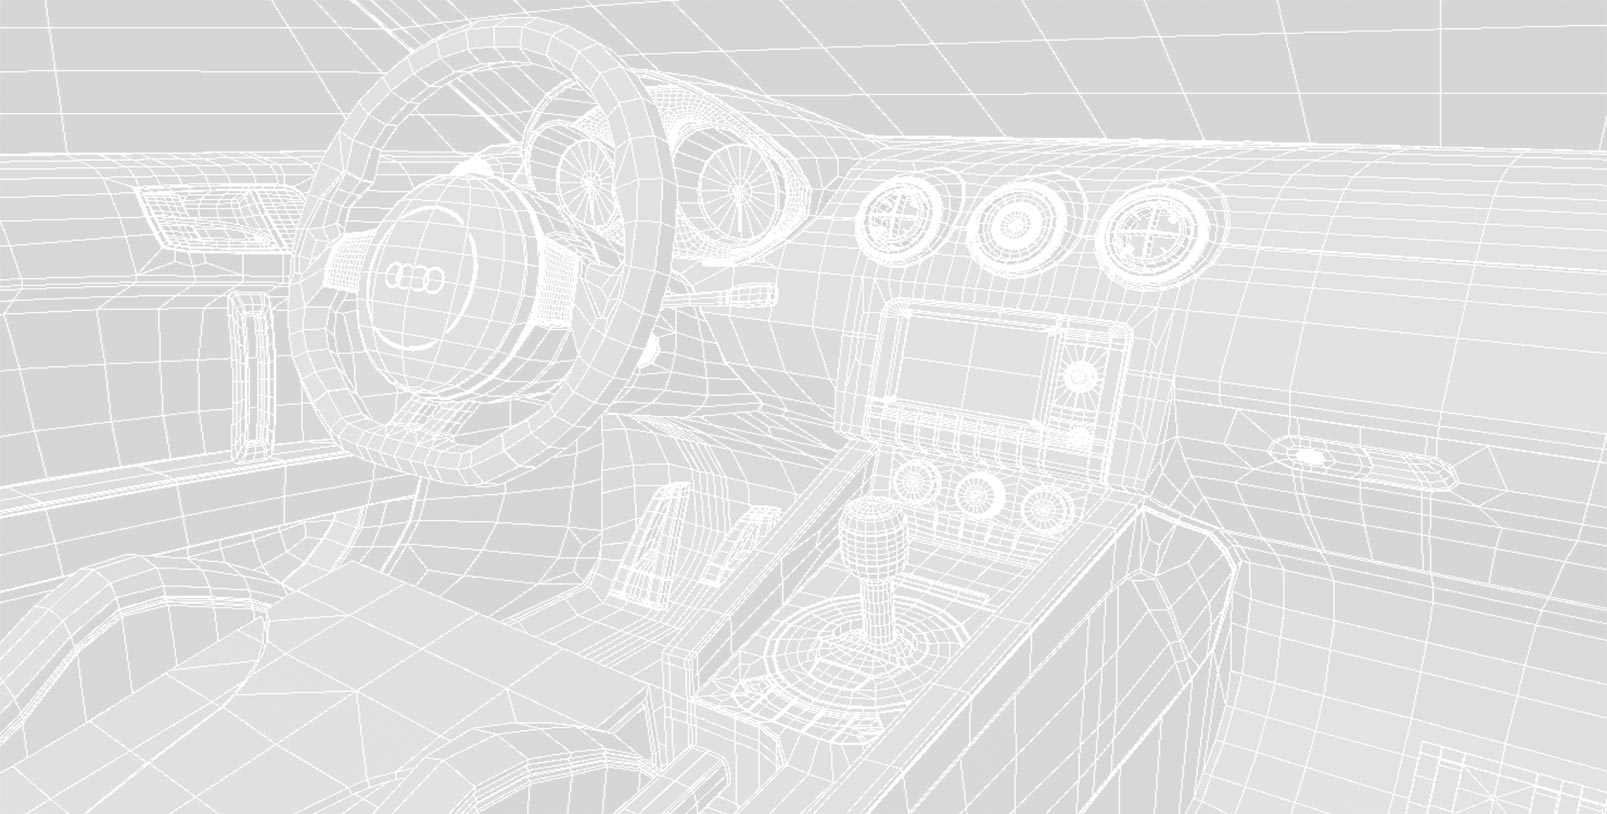
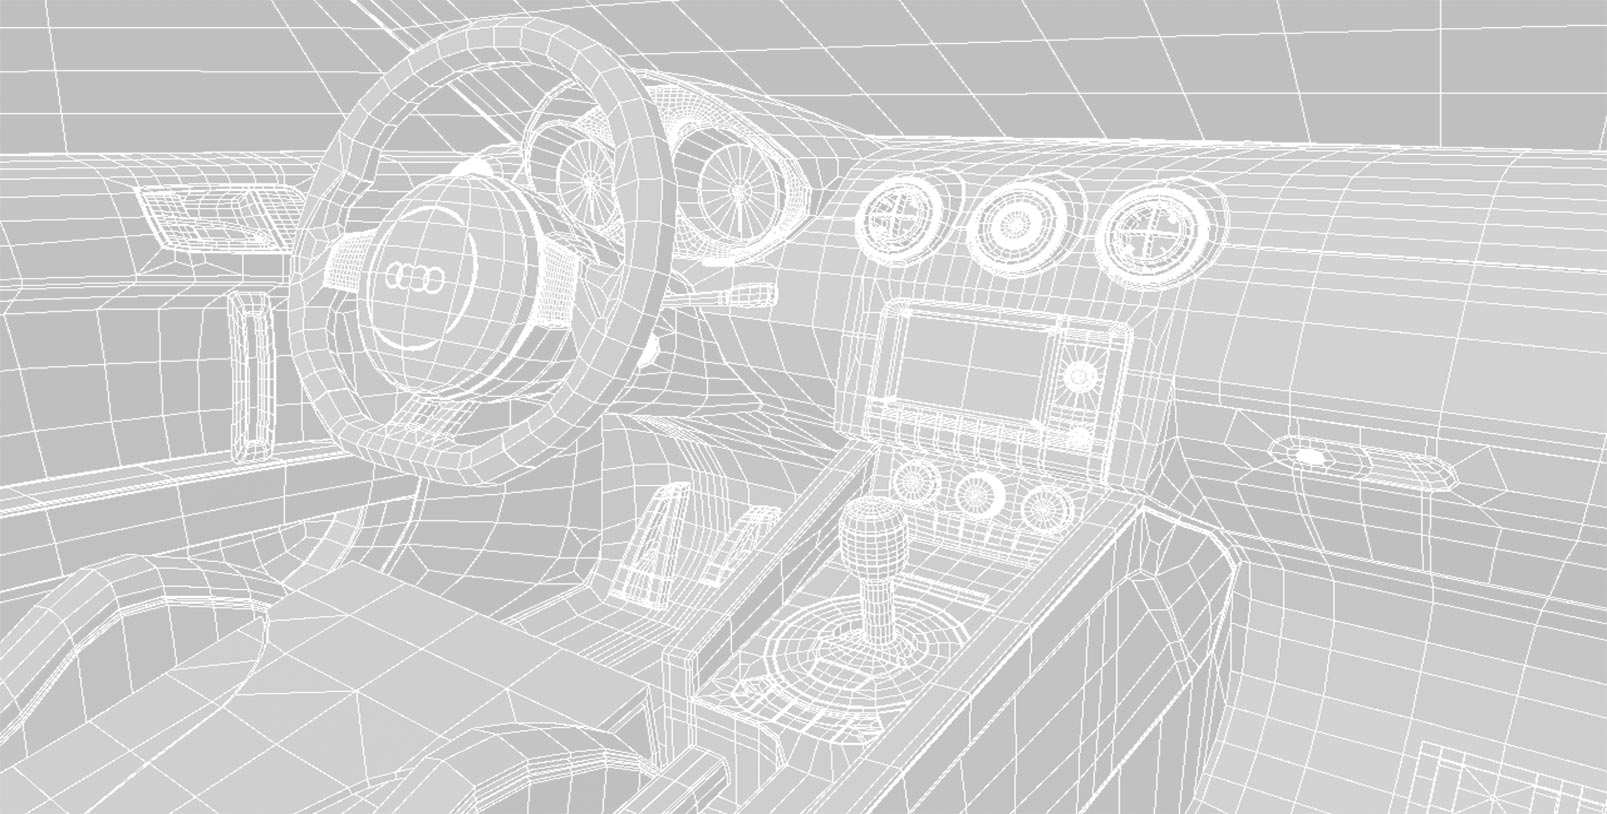
modif

diff --git a/index.html b/index.html
@@ -527,7 +527,7 @@
               
       <div class="row">
           <div class="col-xs-12 service2">
-            <div class="col-xs-12 img-service2"></div>
+            <div class="col-xs-12 img-service3"></div>
                   
               <div class="col-xs-12 card-service shadow-z-2">
                   <img class="center-block img-persp" src="images/3d.png" width="220px" alt="Smiley face">
@@ -550,7 +550,8 @@
 
             </div>
           </div>
-              <div class="vertical-space-100"></div> 
+              <div class="vertical-space-50"></div> 
+              <div class="vertical-space-10"></div>
       </div>
 </div>
                             

diff --git a/css/style.css b/css/style.css
@@ -360,6 +360,11 @@ li.seperate  {
 	background-color: #283593;
 }
 
+.service2 {
+	background-color: #283593;
+	margin-top: 130px !important;
+}
+
 .perspective  {
 	font-size: 16px;
 }
@@ -390,6 +395,16 @@ li.seperate  {
 .img-service2 {
 	height: 170px;
 	background-image: url(../images/wire1.jpg);
+	background-size: cover;
+	z-index: 10;
+	width: 100%;
+	margin-top: -110px;
+
+}
+
+.img-service3 {
+	height: 170px;
+	background-image: url(../images/wire2.jpg);
 	background-size: cover;
 	z-index: 10;
 	width: 100%;
